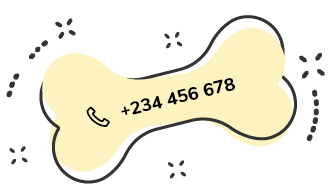
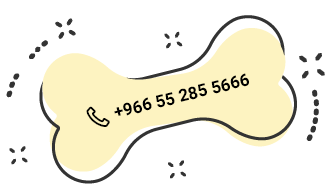
trtrt

Changed region(s): [[0.3284, 0.3947, 0.7463, 0.6053]]

diff --git a/index.html b/index.html
@@ -108,7 +108,7 @@
                     </div>
 
                     <div class="homebtnsec">
-                        <a href="#"> <img class="img-fluid" src="images/homenumber.png" alt=""> </a>
+                        <a href="tel:+966 55 285 5666"> <img class="img-fluid" src="images/homenumber.png" alt=""> </a>
                     </div>
                 </div>
                 <div class="col-lg-6 p-0">
@@ -366,13 +366,13 @@
                                 <img src="images/dayimg3.png" alt="">
                                 
                                 <div class="dayprice">
-                                    <h4>350 Large</h4>
-                                    <h4>335 Medium</h4>
-                                    <h4>325 Small</h4>
+                                    <a href="#">350 Large</a>
+                                    <a href="#">335 Medium</a>
+                                    <a href="#">325 Small</a>
                                 </div>
 
                                 <div class="secdatp">
-                                    <p>Shower with water and shampoo <i class="fa-solid fa-check"></i></p>
+                                    <p>Shower with <br>water and shampoo <i class="fa-solid fa-check"></i></p>
                                     <p>Drying hair <i class="fa-solid fa-check"></i></p>
                                     <p>Combing Hair <i class="fa-solid fa-check"></i></p>
                                     <p>Cut nails <i class="fa-solid fa-check"></i></p>
@@ -380,8 +380,8 @@
                                     <p>Ears cleaning <i class="fa-solid fa-check"></i></p>
                                     <p>Cut and file nails <i class="fa-solid fa-check"></i></p>
                                     <p>Shave the back area <i class="fa-solid fa-check"></i></p>
-                                    <p>Custom hair cut or shaving on request <i class="fa-solid fa-check"></i></p>
-                                    <p>Hair perfume - powder <i class="fa-solid fa-check"></i></p>
+                                    <p>Custom hair cut or <br>shaving on request <i class="fa-solid fa-check"></i></p>
+                                    <p>Hair perfume<br> - powder <i class="fa-solid fa-check"></i></p>
                                 </div>
         
                                 
@@ -397,13 +397,13 @@
                                 <img src="images/dayimg3.png" alt="">
 
                                 <div class="dayprice">
-                                    <h4>260 Large</h4>
-                                    <h4>245 Medium</h4>
-                                    <h4>230 Small</h4>
+                                    <a href="#">260 Large</a>
+                                    <a href="#">245 Medium</a>
+                                    <a href="#">230 Small</a>
                                 </div>
         
                                 <div class="secdatp">
-                                    <p>Shower with water and shampoo <i class="fa-solid fa-check"></i></p>
+                                    <p>Shower with<br> water and shampoo <i class="fa-solid fa-check"></i></p>
                                     <p>Drying hair <i class="fa-solid fa-check"></i></p>
                                     <p>Combing Hair <i class="fa-solid fa-check"></i></p>
                                     <p>Cut nails <i class="fa-solid fa-check"></i></p>
@@ -424,13 +424,13 @@
                                 <img src="images/dayimg3.png" alt="">
                                 
                                 <div class="dayprice">
-                                    <h4>200 Large</h4>
-                                    <h4>185 Medium</h4>
-                                    <h4>170 Small</h4>
+                                    <a href="#">200 Large</a>
+                                    <a href="#">185 Medium</a>
+                                    <a href="#">170 Small</a>
                                 </div>
                                 
                                 <div class="secdatp">
-                                    <p>Shower with water and shampoo <i class="fa-solid fa-check"></i></p>
+                                    <p>Shower with<br> water and shampoo <i class="fa-solid fa-check"></i></p>
                                     <p>Drying hair <i class="fa-solid fa-check"></i></p>
                                     <p>Combing hair <i class="fa-solid fa-check"></i></p>
                                     <p>Cut nails <i class="fa-solid fa-check"></i></p>
@@ -450,13 +450,13 @@
                                 <img src="images/dayimg3.png" alt="">
 
                                 <div class="dayprice">
-                                    <h4>140 Large</h4>
-                                    <h4>125 Medium</h4>
-                                    <h4>110 Small</h4>
+                                    <a href="#">140 Large</a>
+                                    <a href="#">125 Medium</a>
+                                    <a href="#">110 Small</a>
                                 </div>
         
                                 <div class="secdatp">
-                                    <p>Dry shower (shampoo without water) <i class="fa-solid fa-check"></i></p>
+                                    <p>Dry shower (shampoo<br> without water) <i class="fa-solid fa-check"></i></p>
                                     <p>Drying hair <i class="fa-solid fa-check"></i></p>
                                     <p>Combing hair <i class="fa-solid fa-check"></i></p>
                                     <p>Cut nails <i class="fa-solid fa-check"></i></p>
@@ -484,13 +484,13 @@
                                 <img src="images/dayimg1.png" alt="">
                                 
                                 <div class="dayprice">
-                                    <h4>250 Large</h4>
-                                    <h4>240 Large</h4>
-                                    <h4>230 Large</h4>
+                                    <a href="#">250 Large</a>
+                                    <a href="#">240 Large</a>
+                                    <a href="#">230 Large</a>
                                 </div>
 
                                 <div class="secdatp">
-                                    <p>Shower with water and shampoo <i class="fa-solid fa-check"></i></p>
+                                    <p>Shower with<br> water and shampoo <i class="fa-solid fa-check"></i></p>
                                     <p>Drying hair <i class="fa-solid fa-check"></i></p>
                                     <p>Combing hair <i class="fa-solid fa-check"></i></p>
                                     <p>Cut nails <i class="fa-solid fa-check"></i></p>
@@ -498,7 +498,7 @@
                                     <p>Ears cleaning cut and files nails <i class="fa-solid fa-check"></i></p>
                                     <p>Shave the back area <i class="fa-solid fa-check"></i></p>
                                     <p>Custom hair cut or shaving on request <i class="fa-solid fa-check"></i></p>
-                                    <p>Hair perfume - powder <i class="fa-solid fa-check"></i></p>
+                                    <p>Hair perfume<br> - powder <i class="fa-solid fa-check"></i></p>
                                 </div>
         
                                 <div class="secbtnday">
@@ -512,13 +512,13 @@
                                 <img src="images/dayimg1.png" alt="">
 
                                 <div class="dayprice">
-                                    <h4>190 large</h4>
-                                    <h4>180 medium</h4>
-                                    <h4>170 small</h4>
+                                    <a href="#">190 large</a>
+                                    <a href="#">180 medium</a>
+                                    <a href="#">170 small</a>
                                 </div>
         
                                 <div class="secdatp">
-                                    <p>Shower with water and shampo <i class="fa-solid fa-check"></i></p>
+                                    <p>Shower with<br> water and shampo <i class="fa-solid fa-check"></i></p>
                                     <p>Drying hair <i class="fa-solid fa-check"></i></p>
                                     <p>Combing hair <i class="fa-solid fa-check"></i></p>
                                     <p>Cut nails <i class="fa-solid fa-check"></i></p>
@@ -539,13 +539,13 @@
                                 <img src="images/dayimg1.png" alt="">
 
                                 <div class="dayprice">
-                                    <h4>150 large</h4>
-                                    <h4>140 medium</h4>
-                                    <h4>130 small</h4>
+                                    <a href="#">150 large</a>
+                                    <a href="#">140 medium</a>
+                                    <a href="#">130 small</a>
                                 </div>
         
                                 <div class="secdatp">
-                                    <p>Shower with water and shampoo <i class="fa-solid fa-check"></i></p>
+                                    <p>Shower with<br> water and shampoo <i class="fa-solid fa-check"></i></p>
                                     <p>Drying hair <i class="fa-solid fa-check"></i></p>
                                     <p>Combing hair <i class="fa-solid fa-check"></i></p>
                                     <p>Cut nails <i class="fa-solid fa-check"></i></p>
@@ -564,13 +564,13 @@
                                 <img src="images/dayimg1.png" alt="">
                                 
                                 <div class="dayprice">
-                                    <h4>130 large</h4>
-                                    <h4>110 medium</h4>
-                                    <h4>100 small</h4>
+                                    <a href="#">130 large</a>
+                                    <a href="#">110 medium</a>
+                                    <a href="#">100 small</a>
                                 </div>
 
                                 <div class="secdatp">
-                                    <p>Dry shower (shampoo without water) <i class="fa-solid fa-check"></i></p>
+                                    <p>Dry shower (shampoo<br> without water) <i class="fa-solid fa-check"></i></p>
                                     <p>Drying hair <i class="fa-solid fa-check"></i></p>
                                     <p>Combing hair <i class="fa-solid fa-check"></i></p>
                                     <p>Cut nails <i class="fa-solid fa-check"></i></p>

diff --git a/css/style.css b/css/style.css
@@ -4,7 +4,8 @@
 }
 
 img.sec-logo-img {
-  width: 44%;
+  /*width: 44%;*/
+  width: 166px;
 }
 
 .headermenusec {
@@ -32,6 +33,7 @@ img.sec-logo-img {
   font-weight: 600;
   padding: 9px 30px;
   text-transform: uppercase;
+  margin-left: 15px;
 }
 
 .headmenu2:hover {
@@ -470,7 +472,7 @@ img.sec-logo-img {
 }
 .secdaybgg{
   border: 2px solid #000;
-  padding: 44px 44px 35px 44px;
+  padding: 44px 15px 35px 15px;
   text-align: center;
   height: 930px;
 }
@@ -483,8 +485,9 @@ img.sec-logo-img {
   margin-bottom: 24px;
 }
 .secdatp{
-  padding-top: 25px;
+  padding-top: 20px;
   padding-bottom: 25px;
+  height: 500px;
 }
 
 .secpaddday{
@@ -500,6 +503,8 @@ img.sec-logo-img {
 .secdatp p i{
   float: right;
   color: #4eae4a;
+  position: relative;
+  right: 25px;
 }
 .dayprice h4{
   font-size: 25px;
@@ -510,6 +515,19 @@ img.sec-logo-img {
 }
 .dayprice span{
 font-size: 25px;
+}
+.dayprice{
+  margin-top: 10px;
+}
+.dayprice a {
+  background-color: #59c6d5;
+  padding: 5px 15px;
+  border-radius: 10px;
+  display: inline-block;
+  margin: 0px 5px;
+  color: #ffffff;
+  text-decoration: none;
+  margin-bottom: 10px;
 }
 
 .secbtnday{
@@ -887,4 +905,26 @@ position: relative;
 }
 .sec-footer-logo{
   width: 70%;
+}
+
+@media only screen and (max-width:1199px){
+
+  .secdatp p i {
+    position: relative;
+    right: 0px;
+  }
+  .secdatp{
+    height: 475px;
+  }
+}
+
+@media only screen and (max-width:991px){
+
+  .secdatp{
+    height: auto;
+  }
+  .secdaybgg{
+    height: auto;
+    margin-bottom: 30px;
+  }
 }

diff --git a/header.html b/header.html
@@ -22,22 +22,24 @@
                   <a class="nav-link  headermenusec" href="index.html">Home</a>
                 </li>
                 <li class="nav-item">
-                  <a class="nav-link  headermenusec" href="#">Pages</a>
+                  <a class="nav-link  headermenusec" href="#">About Us</a>
+                </li>
+                <li class="nav-item">
+                  <a class="nav-link  headermenusec" href="#">Packages</a>
                 </li>
                 <li class="nav-item">
                   <a class="nav-link  headermenusec" href="#">Blog</a>
                 </li>
                 <li class="nav-item">
-                  <a class="nav-link  headermenusec" href="#">Shop</a>
-                </li>
-                <li class="nav-item">
-                  <a class="nav-link  headermenusec" href="#">Elements</a>
+                  <a class="nav-link  headermenusec" href="#">Contact Us</a>
                 </li>
               </ul>
-             
             </div>
             <li class="nav-item headmenu2">
-              <a class="nav-link  " href="tel:+1235455677"><i class="fa-solid fa-phone"></i> | +1235 455 677</a>
+              <a class="nav-link  " href="#"> Book Appointment </a>
+            </li>
+            <li class="nav-item headmenu2">
+              <a class="nav-link  " href="tel:+966 55 285 5666"><i class="fa-solid fa-phone"></i> | +966 55 285 5666</a>
             </li>
           </div>
         </div>
